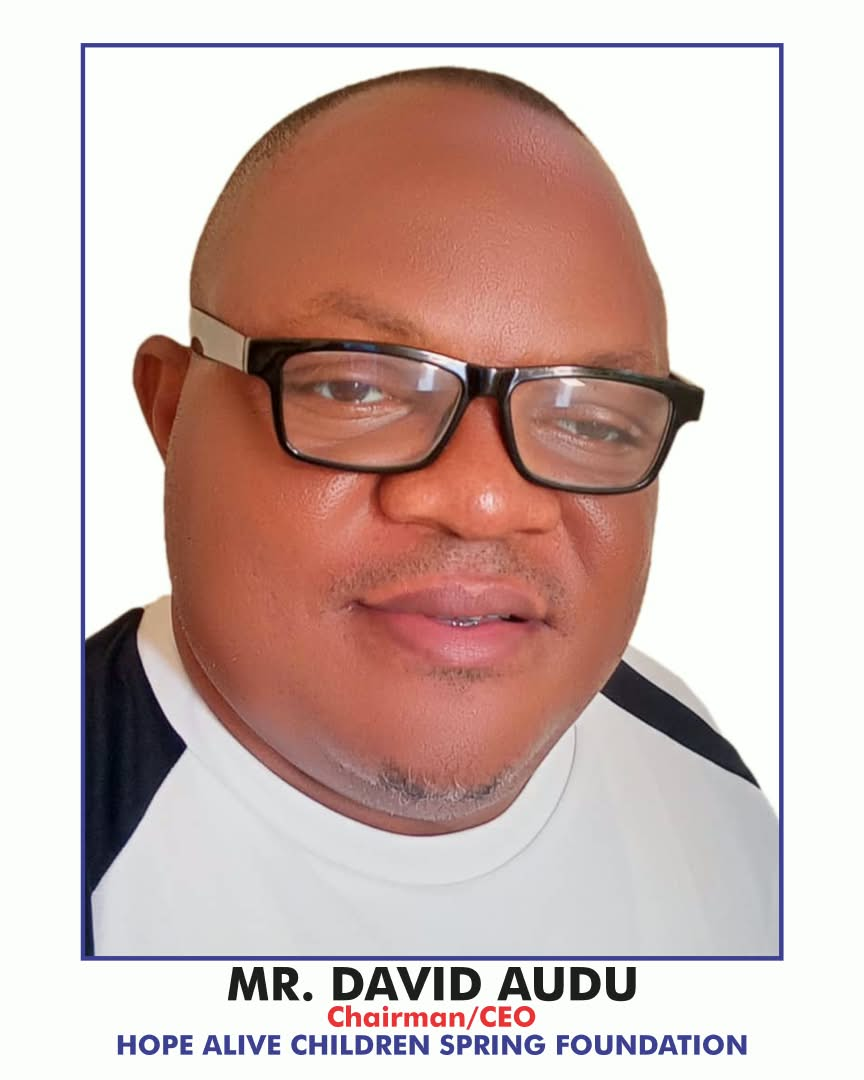
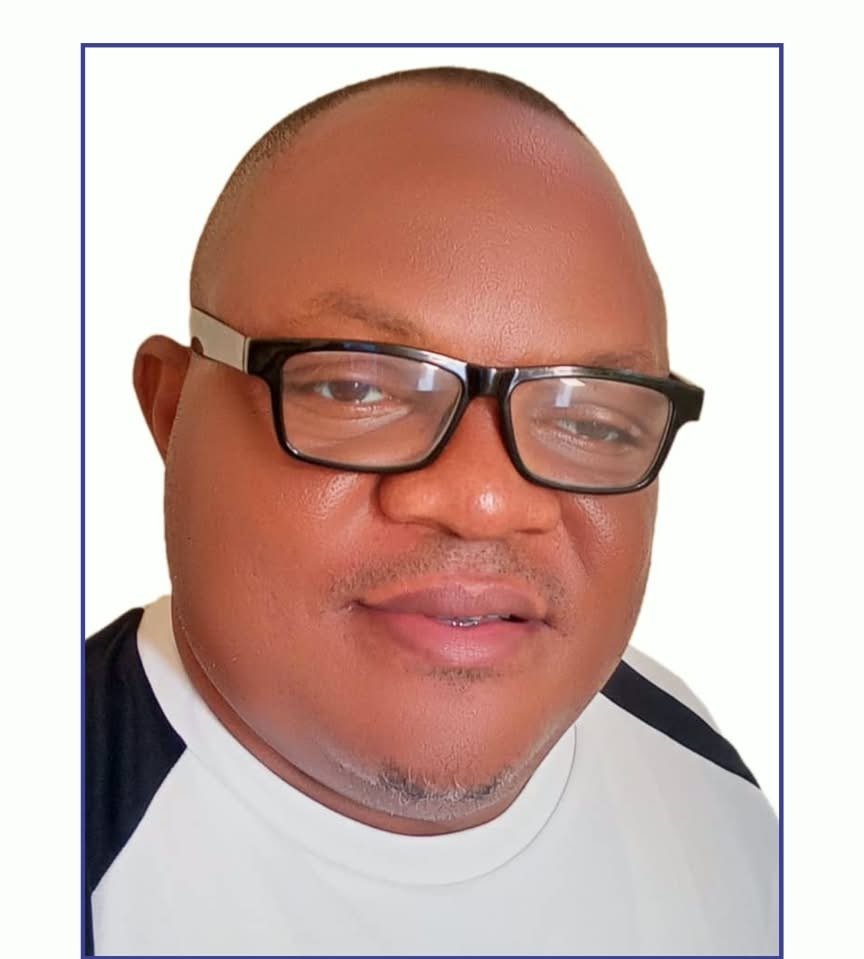
Crop leadership portraits so names appear once in site captions.
Remove the printed caption strip from the governor and CEO photos so the homepage leadership cards show the portraits with a single set of titles underneath.

diff --git a/artifacts/hacs-foundation/src/components/LeadershipSection.tsx b/artifacts/hacs-foundation/src/components/LeadershipSection.tsx
@@ -41,7 +41,7 @@ export function LeadershipSection() {
               <img
                 src={leader.src}
                 alt={leader.alt}
-                className="w-full h-auto rounded-2xl object-contain bg-white"
+                className="w-full h-auto rounded-2xl object-contain bg-white ring-1 ring-black/5"
               />
               <figcaption className="mt-4 text-center px-2">
                 <p className="text-secondary text-xs font-semibold uppercase tracking-widest mb-1">
